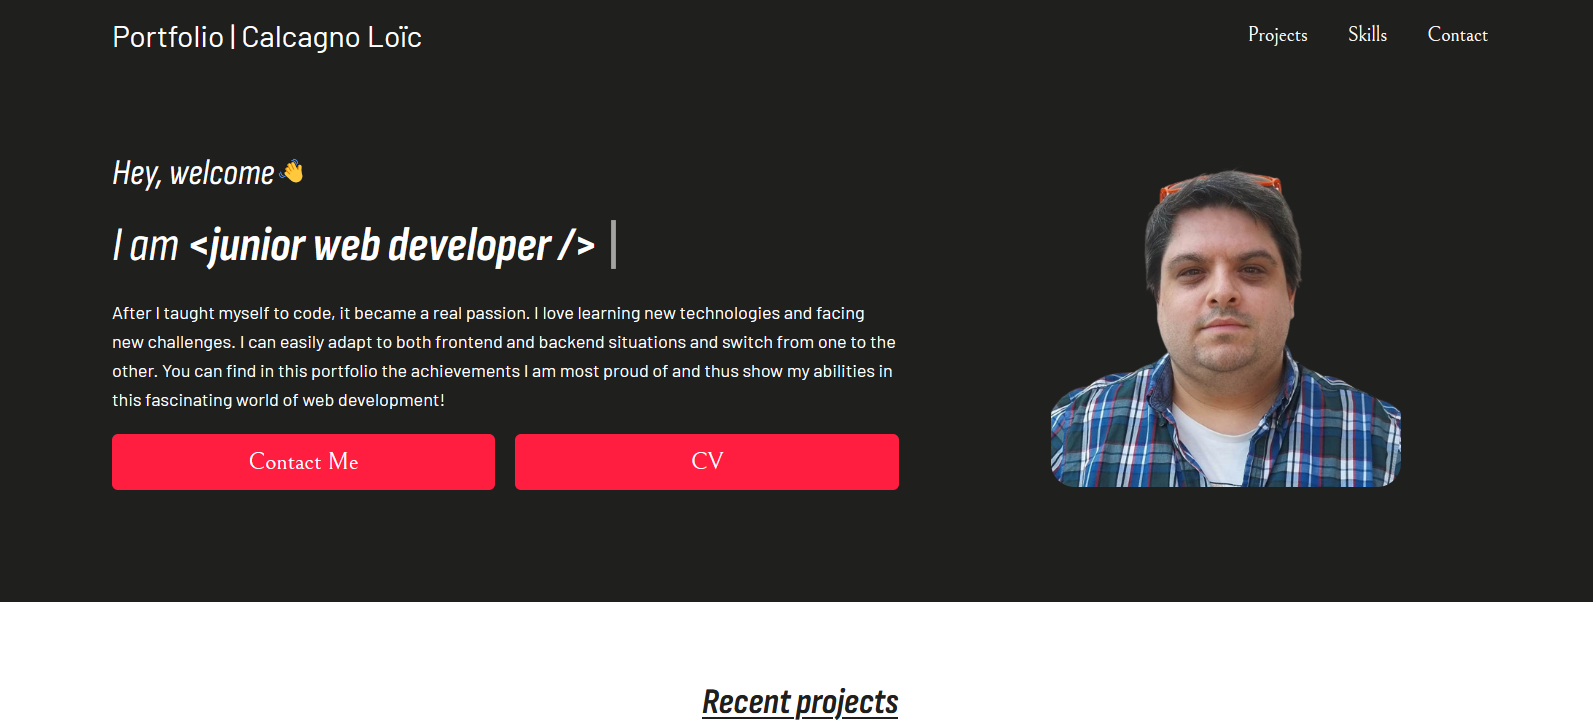
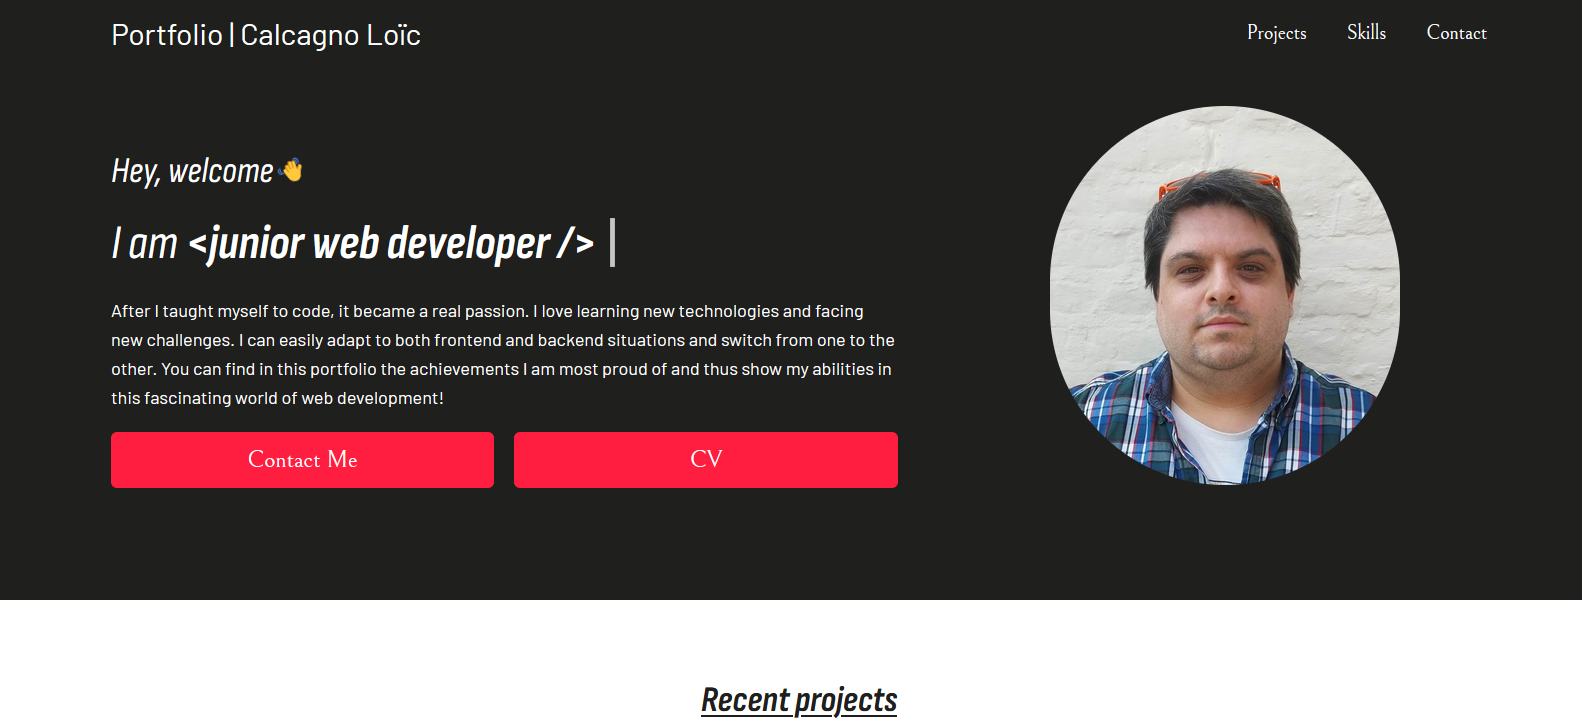
modification of picture

diff --git a/src/components/presentation.jsx b/src/components/presentation.jsx
@@ -54,7 +54,7 @@ const Presentation = () => {
                 <img
                     src={picture}
                     alt="I am a junior web developper"
-                    className="w-2/3 mx-auto rounded-3xl"
+                    className="w-2/3 mx-auto rounded-full"
                 />
             </div>
         </section>
